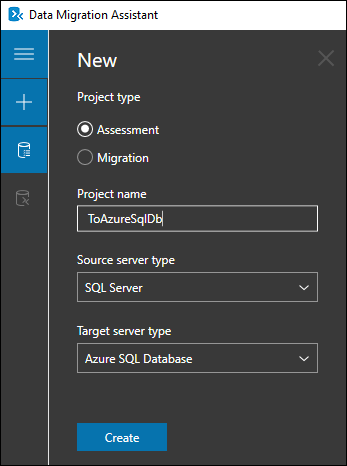
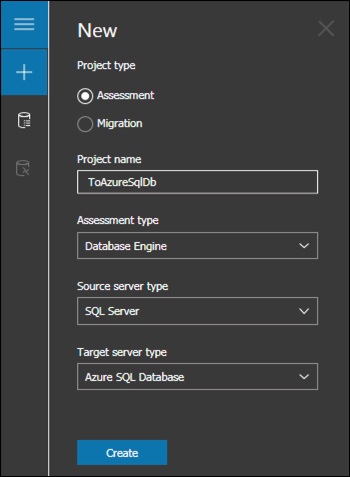
HOL Exercise 1 updates

diff --git a/Hands-on lab/HOL step-by-step - Migrating SQL databases to Azure.md b/Hands-on lab/HOL step-by-step - Migrating SQL databases to Azure.md
@@ -135,7 +135,7 @@ Before you begin the assessments, you need to restore a copy of the `TailspinToy
 
 6. Once logged into the SqlServer2008 VM, download a [backup of the TailspinToys database](https://raw.githubusercontent.com/microsoft/Migrating-SQL-databases-to-Azure/master/Hands-on%20lab/lab-files/Database/TailspinToys.bak), and save it to the `C:\` of the VM.
 
-7. Next, open **Microsoft SQL Server Management Studio 17** by entering "sql server" into the search bar in the Windows Start menu.
+7. Next, open **Microsoft SQL Server Management Studio 17** (SSMS) by entering "sql server" into the search bar in the Windows Start menu and selecting **Microsoft SQL Server Management Studio 17** from the search results.
 
     ![SQL Server is entered into the Windows Start menu search box, and Microsoft SQL Server Management Studio 17 is highlighted in the search results.](media/start-menu-ssms-17.png "Windows start menu search")
 
@@ -244,6 +244,7 @@ In this task, you will use the Microsoft Data Migration Assistant (DMA) to perfo
 
     - **Project type**: Select Assessment.
     - **Project name**: Enter ToAzureSqlDb.
+    - **Assessment type**: Select Database Engine.
     - **Source server type**: Select SQL Server.
     - **Target server type**: Select Azure SQL Database.
 
@@ -294,6 +295,7 @@ With one PaaS offering ruled out due to feature parity, you will now perform a s
 
     - **Project type**: Select Assessment.
     - **Project name**: Enter ToSqlMi.
+    - **Assessment type**: Select Database Engine.
     - **Source server type**: Select SQL Server.
     - **Target server type**: Select Azure SQL Database Managed Instance.
 
@@ -332,7 +334,7 @@ With one PaaS offering ruled out due to feature parity, you will now perform a s
 
     >**Note**: The assessment report for a migrating the `TailspinToys` database to a target platform of Azure SQL Database Managed Instance shows feature parity only with a PowerShell job step. The step listed is associated with a built-in SQL Server Agent Job, and it will not impact the migration of the `TailspinToys` database to SQL MI.
 
-10. The database, including the cross-database references and Service broker features, can be migrated as is, providing the opportunity for TailspinToys to have a fully managed PaaS database running in Azure. Previously, their options for migrating a database using features, such as Service Broker, incompatible with Azure SQL Database, were to deploy the database to a virtual machine running in Azure (IaaS) or modify their database and applications to not use the unsupported features. The introduction of Azure SQL MI, however, provides the ability to migrate databases into a managed Azure SQL database service with near 100% compatibility, including the features that prevented them from using Azure SQL Database.
+10. The database, including the cross-database references and Service broker features, can be migrated as is. This provides the opportunity for TailspinToys to have a fully managed PaaS database running in Azure. Previously, their options for migrating a database using features, such as Service Broker, incompatible with Azure SQL Database, were to deploy the database to a virtual machine running in Azure (IaaS) or modify their database and applications to not use the unsupported features. The introduction of Azure SQL MI, however, provides the ability to migrate databases into a managed Azure SQL database service with *near 100% compatibility*, including the features that prevented them from using Azure SQL Database.
 
 ## Exercise 2: Migrate the database to SQL MI
 
@@ -1025,7 +1027,7 @@ In this task, you will look at the [SQL Data Discovery and Classification](https
 11. Select **Save** on the toolbar of the Data Classification window. It may take several minutes for the save to complete.
 
     ![Save the updates to the classified columns list.](media/ads-data-discovery-and-classification-save.png "Save")
-    
+
     >**Note**: This feature is still in preview.  If you receive an error when saving, try returning to the Advanced Data Security blade, and selecting the Data Discovery & Classification tile again to see the results.
 
 12. When the save completes, select the **Overview** tab on the Data Discovery & Classification blade to view a report with a full summary of the database classification state.
@@ -1318,6 +1320,8 @@ In this exercise, you will de-provision all Azure resources that were created in
 ### Task 1: Delete Azure resource groups
 
 1. In the Azure portal, select **Resource groups** from the left-hand menu, and locate and delete the **hands-on-lab-SUFFIX** following resource group.
+
+    > **NOTE**: Deleting a resource group containing SQL MI does not always work the first time, resulting in a few networking components (route table, SQL MI NSG, and VNet) remaining in the resource group after the first delete attempt. In this case, wait for the first process to complete, and then attempt to delete the resource group a second time.
 
 ### Task 2: Delete the tailspin-toys service principal
 
